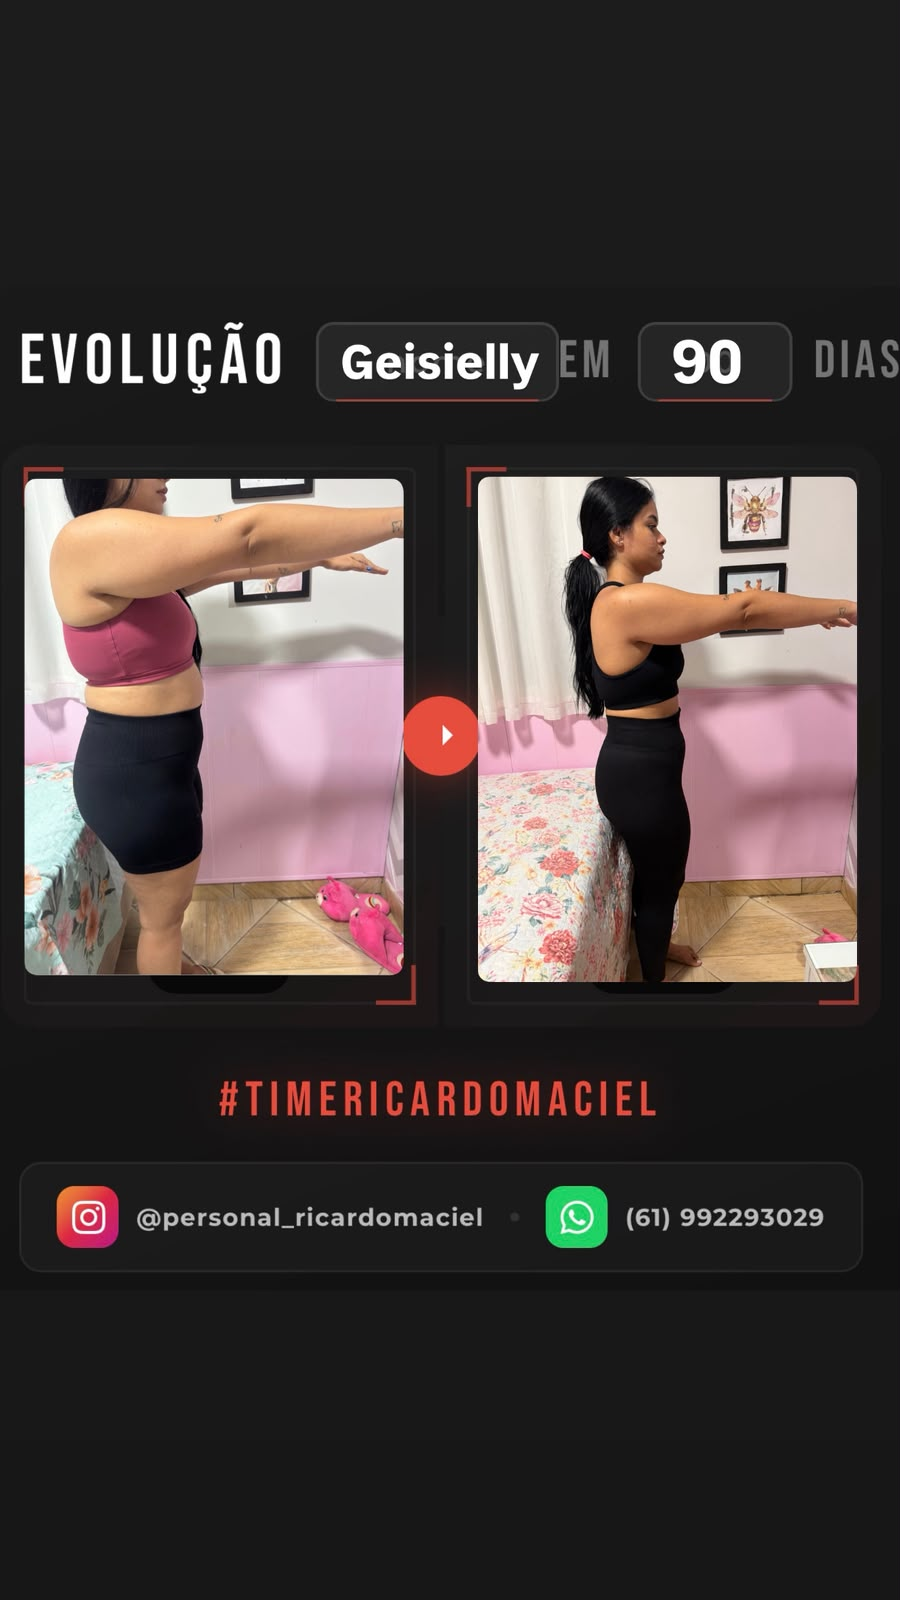
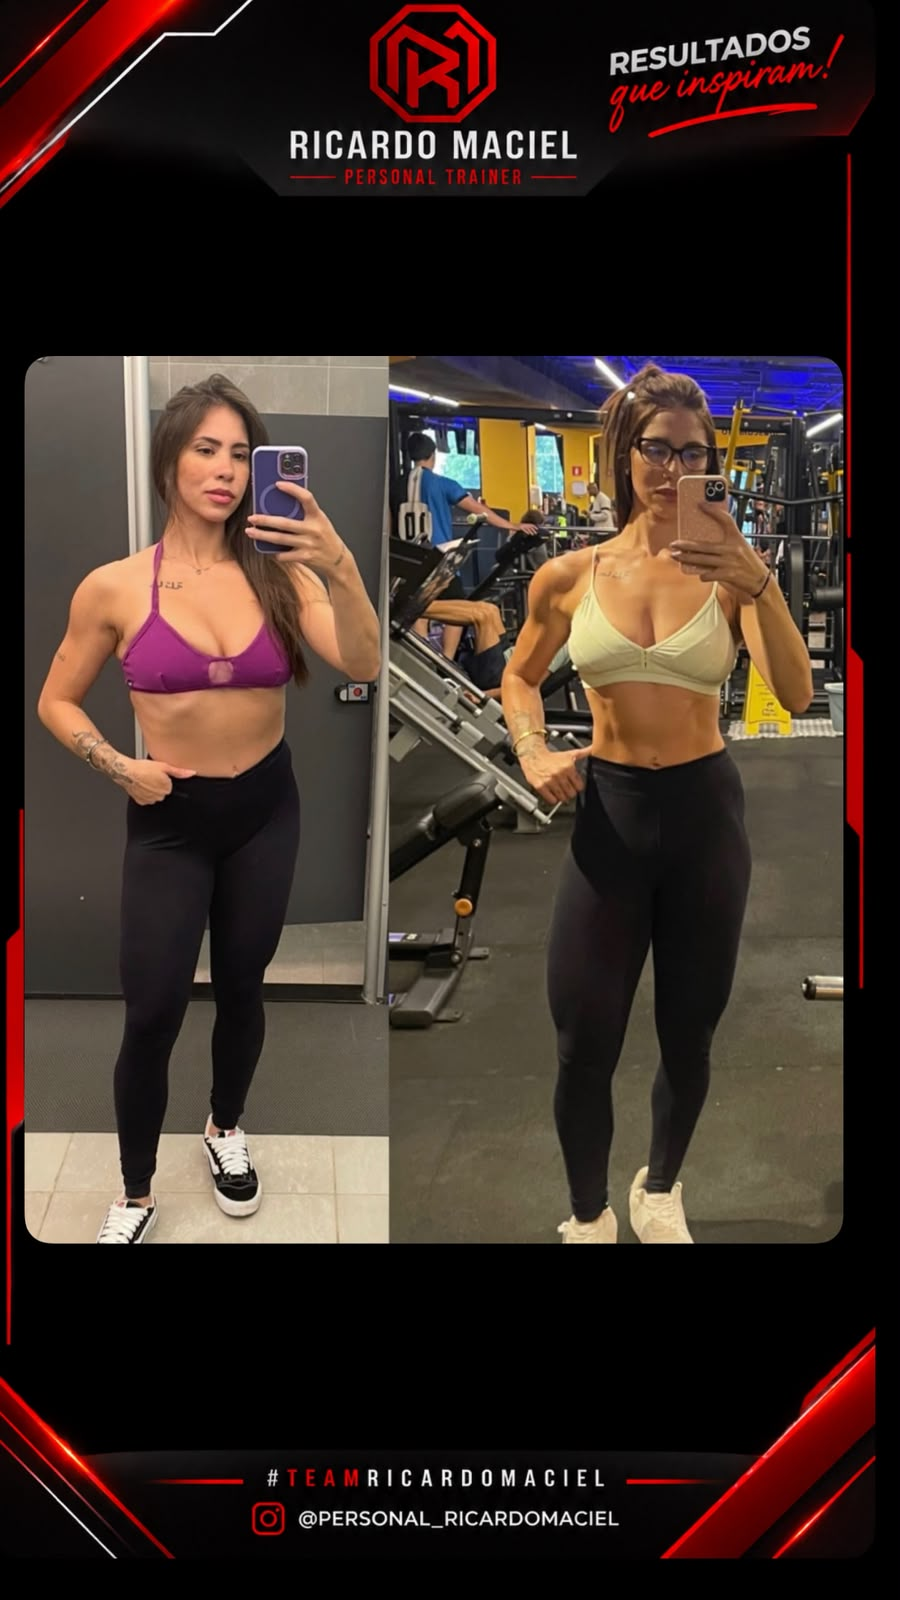
update

diff --git a/src/app/app.ts b/src/app/app.ts
@@ -74,62 +74,35 @@ export class App {
   ] as const;
 
   protected readonly transformations = [
-    ...Array.from({ length: 15 }, (_, i) => ({
-      id: i + 1,
-      src: `/resultado${i + 1}.jpeg`,
-      alt: `Resultado ${i + 1} de transformação com Ricardo Maciel`,
-      label: `Resultado ${i + 1}`,
-      detail: '',
-    })),
+    { id: 1, src: '/resultado1.jpeg', alt: 'Antes e depois de aluna', detail: '' },
+    { id: 2, src: '/resultado2.jpeg', alt: 'Antes e depois de aluna', detail: '' },
+    { id: 3, src: '/resultado3.jpeg', alt: 'Antes e depois de aluna', detail: '' },
+    { id: 4, src: '/resultado4.jpeg', alt: 'Antes e depois de aluna', detail: '' },
+    { id: 5, src: '/resultado5.jpeg', alt: 'Antes e depois de aluna', detail: '' },
+    { id: 6, src: '/resultado6.jpeg', alt: 'Mesmos 60 kg com redistribuição corporal em 30 dias', detail: '30 dias · mesmos 60 kg' },
+    { id: 7, src: '/resultado7.jpeg', alt: 'Antes e depois de aluna', detail: '' },
+    { id: 20, src: '/resultado20.jpeg', alt: 'Antes e depois de aluna', detail: '' },
+    { id: 8, src: '/resultado8.jpeg', alt: 'Antes e depois de aluna', detail: '' },
+    { id: 9, src: '/resultado9.jpeg', alt: 'Antes e depois de aluna', detail: '' },
+    { id: 11, src: '/resultado11.jpeg', alt: 'Antes e depois: 105 kg para 83 kg', detail: '105 kg a 83 kg' },
+    { id: 12, src: '/resultado12.jpeg', alt: 'Antes e depois de aluna', detail: '' },
+    { id: 13, src: '/resultado13.jpeg', alt: 'Antes e depois de aluna', detail: '' },
+    { id: 14, src: '/resultado14.jpeg', alt: 'Antes e depois de aluna', detail: '' },
+    { id: 15, src: '/resultado15.jpeg', alt: 'Antes e depois de aluna', detail: '' },
     {
       id: 16,
       src: '/resultado16.jpeg',
-      alt: 'Resultado 16: 10 meses, menos 27,6 kg na balança, mais 1,7 kg de massa magra e menos 22,1% de gordura corporal',
-      label: 'Resultado 16 · 10 meses',
-      detail: '-27,6 kg · +1,7 kg massa magra · -22,1% gordura',
+      alt: '10 meses: menos 27,6 kg, mais 1,7 kg de massa magra e menos 22,1% de gordura',
+      detail: '10 meses · -27,6 kg · +1,7 kg massa magra · -22,1% gordura',
     },
-    {
-      id: 17,
-      src: '/resultado17.jpeg',
-      alt: 'Resultado 17: transformação em 70 dias',
-      label: 'Resultado 17 · 70 dias',
-      detail: '',
-    },
-    {
-      id: 18,
-      src: '/resultado18.jpeg',
-      alt: 'Resultado 18: transformação em 1 ano e 6 meses',
-      label: 'Resultado 18 · 1 ano e 6 meses',
-      detail: '',
-    },
-    {
-      id: 19,
-      src: '/resultado19.jpeg',
-      alt: 'Resultado 19: antes e depois da aluna do feedback no WhatsApp',
-      label: 'Resultado 19',
-      detail: '',
-    },
-    {
-      id: 20,
-      src: '/resultado20.jpeg',
-      alt: 'Resultado 20: antes e depois de aluna do Team Ricardo Maciel',
-      label: 'Resultado 20',
-      detail: '',
-    },
-    {
-      id: 21,
-      src: '/resultado21.jpeg',
-      alt: 'Resultado 21: antes e depois de aluno do Team Ricardo Maciel',
-      label: 'Resultado 21',
-      detail: '',
-    },
-    {
-      id: 22,
-      src: '/resultado22.jpeg',
-      alt: 'Resultado 22: transformação em 5 meses',
-      label: 'Resultado 22 · 5 meses',
-      detail: '',
-    },
+    { id: 17, src: '/resultado17.jpeg', alt: 'Transformação em 70 dias', detail: '70 dias' },
+    { id: 19, src: '/resultado19.jpeg', alt: 'Antes e depois de aluna', detail: '' },
+    { id: 21, src: '/resultado21.jpeg', alt: 'Antes e depois de aluno', detail: '' },
+    { id: 22, src: '/resultado22.jpeg', alt: 'Transformação em 5 meses', detail: '5 meses' },
+    { id: 23, src: '/resultado23.jpeg', alt: 'Evolução da Geisielly em 90 dias', detail: '90 dias' },
+    { id: 24, src: '/resultado24.jpeg', alt: 'Antes e depois de aluna', detail: '' },
+    { id: 25, src: '/resultado25.jpeg', alt: 'Antes e depois de aluna', detail: '' },
+    { id: 26, src: '/resultado26.jpeg', alt: 'Antes e depois de aluno', detail: '' },
   ];
 
   protected readonly onlineRegions = [
@@ -137,6 +110,8 @@ export class App {
     'Goiás',
     'São Paulo',
     'Rio de Janeiro',
+    'Bahia',
+    'Minas Gerais',
     'Irlanda do Norte',
     'Alemanha',
     'Portugal',

diff --git a/src/app/app.html b/src/app/app.html
@@ -346,10 +346,10 @@
           aria-label="Fotos de resultados em carrossel"
           (scroll)="onResultsScroll($event)"
         >
-          @for (photo of transformations; track photo.id; let i = $index) {
+          @for (photo of transformations; track photo.src; let i = $index) {
             <article
               class="result-slide result-slide--photo"
-              [attr.aria-label]="'Resultado ' + photo.id + ' de ' + transformations.length"
+              [attr.aria-label]="'Foto ' + (i + 1) + ' de ' + transformations.length"
             >
               <img
                 [src]="photo.src"
@@ -359,12 +359,11 @@
                 loading="lazy"
                 decoding="async"
               />
-              <div class="result-meta">
-                <span class="result-badge">{{ photo.label }}</span>
-                @if (photo.detail) {
+              @if (photo.detail) {
+                <div class="result-meta">
                   <span class="result-detail">{{ photo.detail }}</span>
-                }
-              </div>
+                </div>
+              }
             </article>
           }
         </div>
@@ -389,14 +388,14 @@
           </button>
 
           <div class="results-dots" role="tablist" aria-label="Navegação das fotos">
-            @for (photo of transformations; track photo.id; let i = $index) {
+            @for (photo of transformations; track photo.src; let i = $index) {
               <button
                 type="button"
                 class="results-dot"
                 role="tab"
                 [class.is-active]="resultIndex() === i"
                 [attr.aria-selected]="resultIndex() === i"
-                [attr.aria-label]="'Ir para resultado ' + photo.id"
+                [attr.aria-label]="'Ir para foto ' + (i + 1)"
                 (click)="goToResult(i)"
               ></button>
             }
@@ -420,8 +419,6 @@
             </svg>
           </button>
         </div>
-
-        <p class="results-counter">{{ resultIndex() + 1 }} / {{ transformations.length }}</p>
       </div>
     </section>
 
@@ -528,7 +525,8 @@
         <div>
           <h3 class="block-label">Online</h3>
           <p class="block-text">
-            Brasília, Goiás, SP, RJ e também Irlanda do Norte, Alemanha, Portugal e EUA.
+            Brasília, Goiás, SP, RJ, Bahia, Minas Gerais e também Irlanda do Norte, Alemanha,
+            Portugal e EUA.
           </p>
           <div class="online-tags">
             @for (region of onlineRegions; track region) {

diff --git a/src/app/app.css b/src/app/app.css
@@ -670,6 +670,7 @@
 
 .results-carousel {
   display: flex;
+  align-items: stretch;
   gap: 1rem;
   overflow-x: auto;
   overflow-y: hidden;
@@ -697,19 +698,22 @@
 
 .result-slide--photo {
   position: relative;
+  display: flex;
+  align-items: center;
+  justify-content: center;
+  aspect-ratio: 4 / 5;
   overflow: hidden;
   border-radius: 1.1rem;
   border: 1px solid color-mix(in srgb, white 12%, transparent);
-  background: #111;
-  aspect-ratio: 4 / 5;
+  background: #0a0a0a;
 }
 
 .result-slide--photo img {
   display: block;
   width: 100%;
   height: 100%;
-  object-fit: cover;
-  object-position: center top;
+  object-fit: contain;
+  object-position: center;
   user-select: none;
   -webkit-user-drag: none;
   pointer-events: none;
